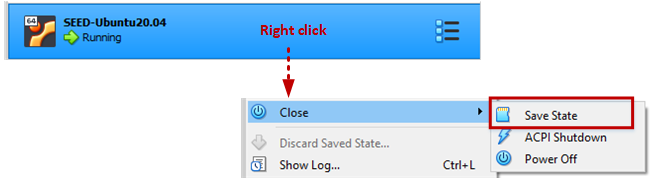
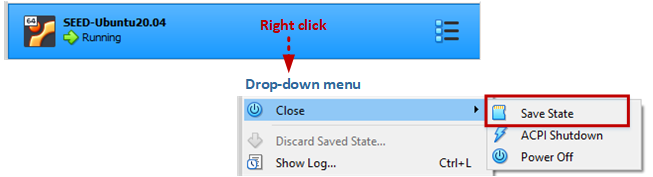
minor changes to the manuals

diff --git a/manuals/seedvm-install.md b/manuals/seedvm-install.md
@@ -5,17 +5,19 @@
 
 Before installing the SEED VM, please do the following:
 
-- Install the free VirtualBox software first. We recommend Version 6.1.10.
-Please stay away from the newest versions, as they often have some issues
-with our VM.
+- Install the free [VirtualBox](https://www.virtualbox.org/) software first. 
+The VM has been tested on Version `6.1.16`.
 
-- Download the zip file `xyz.zip` from the SEED website, unzip it, 
+- Download the zip file `SEED-Ubuntu20.04.zip` from the 
+[SEED website](https://seedsecuritylabs.org/lab_env.html), unzip it, 
 and you will get a `.vdi` file. This file contains the pre-built SEED 
-Ubuntu 20.04 image. This document shows how to create a virtual machine
+Ubuntu 20.04 image. This document shows how to build a virtual machine
 using this image. 
 
 
 ## Step 1: Create a New VM in VirtualBox
+
+We need to use `New` to create a new virtual machine.
 
 ![New VM](./Figs/vm-new.png)
 
@@ -28,6 +30,7 @@ Our prebuilt Ubuntu 20.04 VM is 64-bit, so pick Ubuntu (64-bit).
 
 ## Step 3: Set the Memory Size
 
+We need to allocate dedicated memory for the VM. 
 1024 MB should be sufficient, but we recommend 2GB. If your computer has more 
 RAM, you can increase accordingly. The more memory you give to the VM, 
 the better the performance you will get.
@@ -36,17 +39,18 @@ the better the performance you will get.
 
 ## Step 4: Select the Pre-built VM File Provided by Us
 
-Click the folder image, th
-Pick the `.vdi` file that you downloaded from the SEED website.  
+Click the folder image. On the popup window, use
+the `Add` button to select the `.vdi` file downloaded 
+from the SEED website.  
 
 ![choose vdi](./Figs/vm-hard-disk.png)
 
 ## Step 5: Configure the VM
 
 After the previous step, your VM will be created, and you will
-see it on VirtualBox's VM panel. Right-click it, then click
-the `Settings` option, and we need to do some post-installation 
-configuration.
+see it on VirtualBox's VM panel. We need to do some further 
+configuration. Right-click the M, click
+the `Settings` option, and we will see the Settings window.
 
 ![finished](./Figs/vm-setting.png)
 
@@ -55,11 +59,18 @@ configuration.
 
 Go to the `General` category, and select the `Advanced` tab. 
 Select `Bidirectional` for both items. The first item allows users to copy
-and paste between the VM and the host computer. The second item allows users
+and paste between the VM and the host computer 
+The second item allows users
 to transfer files between the VM and the host computer using Drag'n Drop (this 
 feature is not always reliable).
 
 ![general](./Figs/vm-setting-general.png)
+
+The copy-and-paste feature is very useful. If you can't do copy and paste, 
+chances are that you forgot to do this step. You can always do it later
+by selecting the `Devices` menu item, and you will see the 
+`Shared Clipboard` submenu. 
+
 
 ### Step 5.b: CPUs 
 
@@ -70,7 +81,7 @@ if the performance seems to be an issue, increase the number.
 ![CPU cores](./Figs/vm-setting-system.png)
 
 
-### Step 5.b: Display
+### Step 5.c: Display
 
 Go to the `Display` category, and select the `Processor` tab. If the 
 display does not seem to work properly, try to increase the amount of video memory.
@@ -82,10 +93,10 @@ In our testing, `28 MB` seems to be sufficient.
 may lead to the crash of the VM.
 
 **Note 2**: If your computer's screen resolution is too high, the VM may not be able 
-to match that resolution. As a result, your VM will look small on your screen. 
-To make it looks bigger, adjust the `Scale Factor` in this setting. 
+to match the high resolution. As results, your VM will be very small on your screen. 
+To make it bigger, adjust the `Scale Factor` in this setting. 
 
-### Step 5.c: Network
+### Step 5.d: Network
 
 Go to the `Network` category, and select the `Adapter 1` tab. We will
 choose the `NAT Network` adaptor. Click the `Advanced` drop-down menu to
@@ -94,7 +105,7 @@ further configure the network adaptor.
 ![display](./Figs/vm-setting-network.png)
 
 
-## Start the VM and Take Snapshot (Optional)
+## Start the VM and Take Snapshot 
 
 We can now start the VM. You can also use the `Take` button to take a snapshot 
 of your VM. This way, if something goes wrong, you can roll back the state of

diff --git a/manuals/seedvm-usermanual.md b/manuals/seedvm-usermanual.md
@@ -1,23 +1,16 @@
 # User Manuals for SEED Ubuntu 20.04 VM
 
-## VM installation and Configuration 
 
 ### [1. SEED Ubuntu VM Installation](./seedvm-install.md)
 
-### [2. Taking Snapshots and Recovering from Snapshots](./seedvm-snapshots.md)
+### [2. OS Manuals](./seedvm-os.md) 
 
-### [3. Creating Shared Folder Between VM and Host](./seedvm-sharedfolder.md)
+### [3. Sharing Files Between VM and Host](./seedvm-sharing.md)
 
-### [4. Creating Multiple VMs using Cloning](./seedvm-clone.md)
-
-### [5. Common Problems](./seedvm-problems.md)
-
-
-## User Manual for the OS 
+### [4. Common Problems with the VM](./seedvm-problems.md)
 
 ### Account Information 
 
 - User ID: `seed`
 - Password: `dees`
 
-### [OS Manuals](./seedvm-os.md) 
